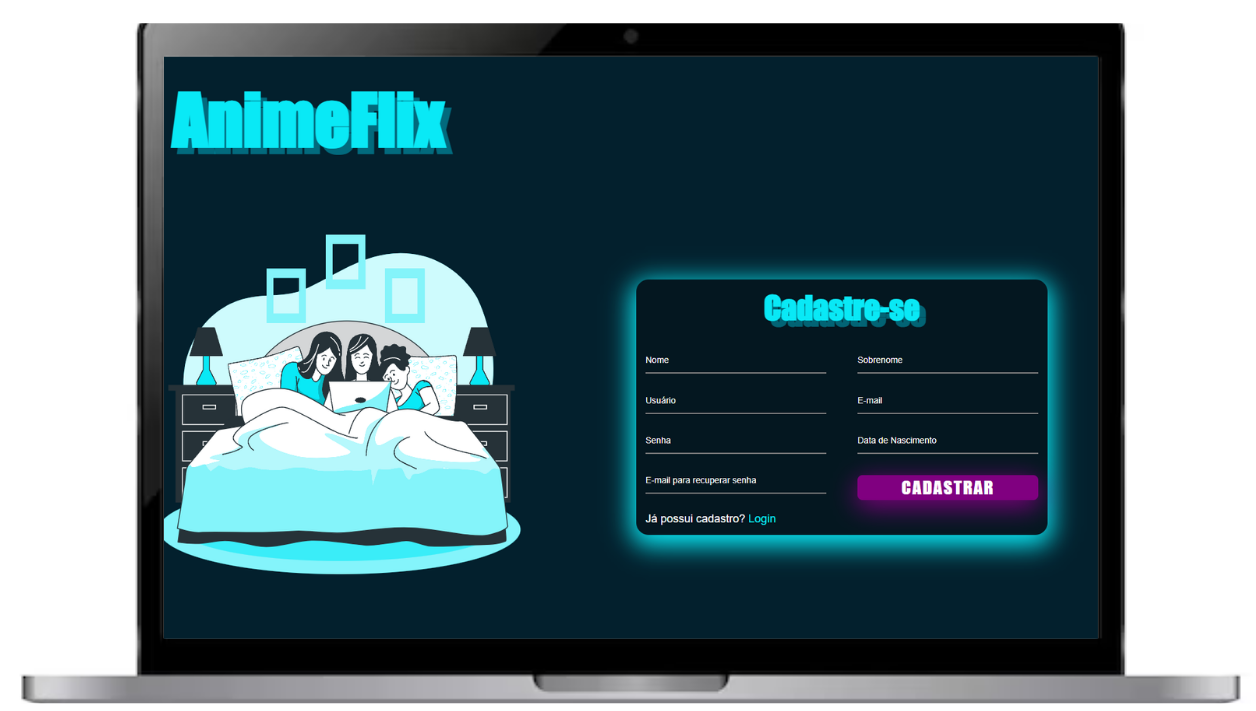
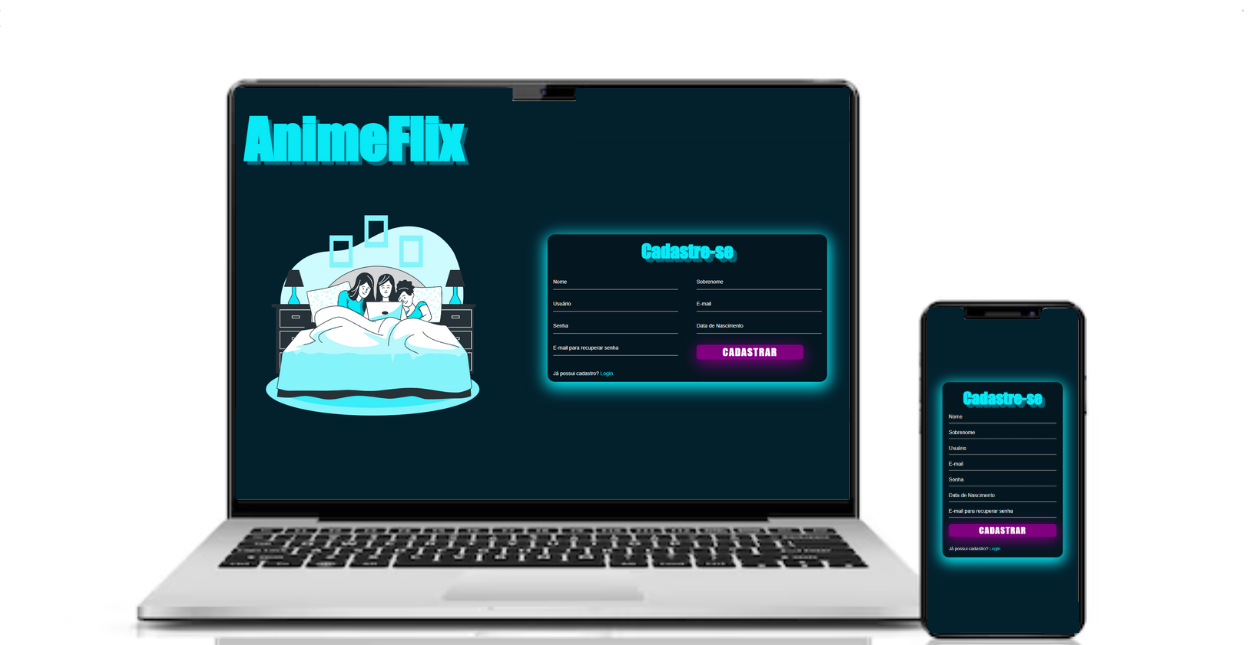
adicionado novo projeto ao portfólio.

diff --git a/src/app/home/home.html b/src/app/home/home.html
@@ -226,11 +226,52 @@
                     <img src="./assets/imgs/gestorTarefas.png">
                 </div>
             </div>
-
-            <div class="project reverse">
+ 
+             <div class="project reverse">
                 <div class="img">
-                    <img src="./assets/imgs/portfolio.png">
+                    <img src="./assets/imgs/tela-cadastro.png">
                 </div>
+                <div class="text">
+                    <h4>Sistema de Autenticação</h4>
+
+                    <p>Aplicação web desenvolvida com HTML, CSS, JavaScript e uma API REST criada em .NET com C#, integrada a um banco de dados MySQL para gerenciamento de usuários. 
+                        O sistema conta com telas de login, cadastro e recuperação de senha, simulando um fluxo completo de autenticação.</p>
+                    <p>Durante o desenvolvimento, trabalhei com validação de formulários, requisições HTTP, integração entre front-end e back-end e armazenamento seguro de informações, fortalecendo meus conhecimentos em desenvolvimento full stack e boas práticas de arquitetura de sistemas.</p>
+
+                    <div class="buttons">
+                        <a href="https://github.com/jardeloli/pagina_web">
+                            <svg viewBox="0 0 128 128">
+                                <g fill="#fff">
+                                    <path fill-rule="evenodd" clip-rule="evenodd"
+                                        d="M64 5.103c-33.347 0-60.388 27.035-60.388 60.388 0 26.682 17.303 49.317 41.297 57.303 3.017.56 4.125-1.31 4.125-2.905 0-1.44-.056-6.197-.082-11.243-16.8 3.653-20.345-7.125-20.345-7.125-2.747-6.98-6.705-8.836-6.705-8.836-5.48-3.748.413-3.67.413-3.67 6.063.425 9.257 6.223 9.257 6.223 5.386 9.23 14.127 6.562 17.573 5.02.542-3.903 2.107-6.568 3.834-8.076-13.413-1.525-27.514-6.704-27.514-29.843 0-6.593 2.36-11.98 6.223-16.21-.628-1.52-2.695-7.662.584-15.98 0 0 5.07-1.623 16.61 6.19C53.7 35 58.867 34.327 64 34.304c5.13.023 10.3.694 15.127 2.033 11.526-7.813 16.59-6.19 16.59-6.19 3.287 8.317 1.22 14.46.593 15.98 3.872 4.23 6.215 9.617 6.215 16.21 0 23.194-14.127 28.3-27.574 29.796 2.167 1.874 4.097 5.55 4.097 11.183 0 8.08-.07 14.583-.07 16.572 0 1.607 1.088 3.49 4.148 2.897 23.98-7.994 41.263-30.622 41.263-57.294C124.388 32.14 97.35 5.104 64 5.104z">
+                                    </path>
+                                    <path
+                                        d="M26.484 91.806c-.133.3-.605.39-1.035.185-.44-.196-.685-.605-.543-.906.13-.31.603-.395 1.04-.188.44.197.69.61.537.91zm2.446 2.729c-.287.267-.85.143-1.232-.28-.396-.42-.47-.983-.177-1.254.298-.266.844-.14 1.24.28.394.426.472.984.17 1.255zM31.312 98.012c-.37.258-.976.017-1.35-.52-.37-.538-.37-1.183.01-1.44.373-.258.97-.025 1.35.507.368.545.368 1.19-.01 1.452zm3.261 3.361c-.33.365-1.036.267-1.552-.23-.527-.487-.674-1.18-.343-1.544.336-.366 1.045-.264 1.564.23.527.486.686 1.18.333 1.543zm4.5 1.951c-.147.473-.825.688-1.51.486-.683-.207-1.13-.76-.99-1.238.14-.477.823-.7 1.512-.485.683.206 1.13.756.988 1.237zm4.943.361c.017.498-.563.91-1.28.92-.723.017-1.308-.387-1.315-.877 0-.503.568-.91 1.29-.924.717-.013 1.306.387 1.306.88zm4.598-.782c.086.485-.413.984-1.126 1.117-.7.13-1.35-.172-1.44-.653-.086-.498.422-.997 1.122-1.126.714-.123 1.354.17 1.444.663zm0 0">
+
+                                    </path>
+                                </g>
+                            </svg>Repositório Front-end</a>
+
+                        <a href="https://github.com/jardeloli/sistema-backend">
+                            <svg viewBox="0 0 128 128">
+                                <g fill="#fff">
+                                    <path fill-rule="evenodd" clip-rule="evenodd"
+                                        d="M64 5.103c-33.347 0-60.388 27.035-60.388 60.388 0 26.682 17.303 49.317 41.297 57.303 3.017.56 4.125-1.31 4.125-2.905 0-1.44-.056-6.197-.082-11.243-16.8 3.653-20.345-7.125-20.345-7.125-2.747-6.98-6.705-8.836-6.705-8.836-5.48-3.748.413-3.67.413-3.67 6.063.425 9.257 6.223 9.257 6.223 5.386 9.23 14.127 6.562 17.573 5.02.542-3.903 2.107-6.568 3.834-8.076-13.413-1.525-27.514-6.704-27.514-29.843 0-6.593 2.36-11.98 6.223-16.21-.628-1.52-2.695-7.662.584-15.98 0 0 5.07-1.623 16.61 6.19C53.7 35 58.867 34.327 64 34.304c5.13.023 10.3.694 15.127 2.033 11.526-7.813 16.59-6.19 16.59-6.19 3.287 8.317 1.22 14.46.593 15.98 3.872 4.23 6.215 9.617 6.215 16.21 0 23.194-14.127 28.3-27.574 29.796 2.167 1.874 4.097 5.55 4.097 11.183 0 8.08-.07 14.583-.07 16.572 0 1.607 1.088 3.49 4.148 2.897 23.98-7.994 41.263-30.622 41.263-57.294C124.388 32.14 97.35 5.104 64 5.104z">
+                                    </path>
+                                    <path
+                                        d="M26.484 91.806c-.133.3-.605.39-1.035.185-.44-.196-.685-.605-.543-.906.13-.31.603-.395 1.04-.188.44.197.69.61.537.91zm2.446 2.729c-.287.267-.85.143-1.232-.28-.396-.42-.47-.983-.177-1.254.298-.266.844-.14 1.24.28.394.426.472.984.17 1.255zM31.312 98.012c-.37.258-.976.017-1.35-.52-.37-.538-.37-1.183.01-1.44.373-.258.97-.025 1.35.507.368.545.368 1.19-.01 1.452zm3.261 3.361c-.33.365-1.036.267-1.552-.23-.527-.487-.674-1.18-.343-1.544.336-.366 1.045-.264 1.564.23.527.486.686 1.18.333 1.543zm4.5 1.951c-.147.473-.825.688-1.51.486-.683-.207-1.13-.76-.99-1.238.14-.477.823-.7 1.512-.485.683.206 1.13.756.988 1.237zm4.943.361c.017.498-.563.91-1.28.92-.723.017-1.308-.387-1.315-.877 0-.503.568-.91 1.29-.924.717-.013 1.306.387 1.306.88zm4.598-.782c.086.485-.413.984-1.126 1.117-.7.13-1.35-.172-1.44-.653-.086-.498.422-.997 1.122-1.126.714-.123 1.354.17 1.444.663zm0 0">
+
+                                    </path>
+                                </g>
+                            </svg>
+                            Repositório Back-end
+                        </a>
+                    </div>
+                </div>
+                
+            </div>
+
+            <div class="project">
                 <div class="text">
                     <h4>Portfólio Pessoal</h4>
 
@@ -253,6 +294,9 @@
                                 </g>
                             </svg>Repositório</a>
                     </div>
+                </div>
+                <div class="img">
+                    <img src="./assets/imgs/portfolio.png">
                 </div>
             </div>
         </div>
